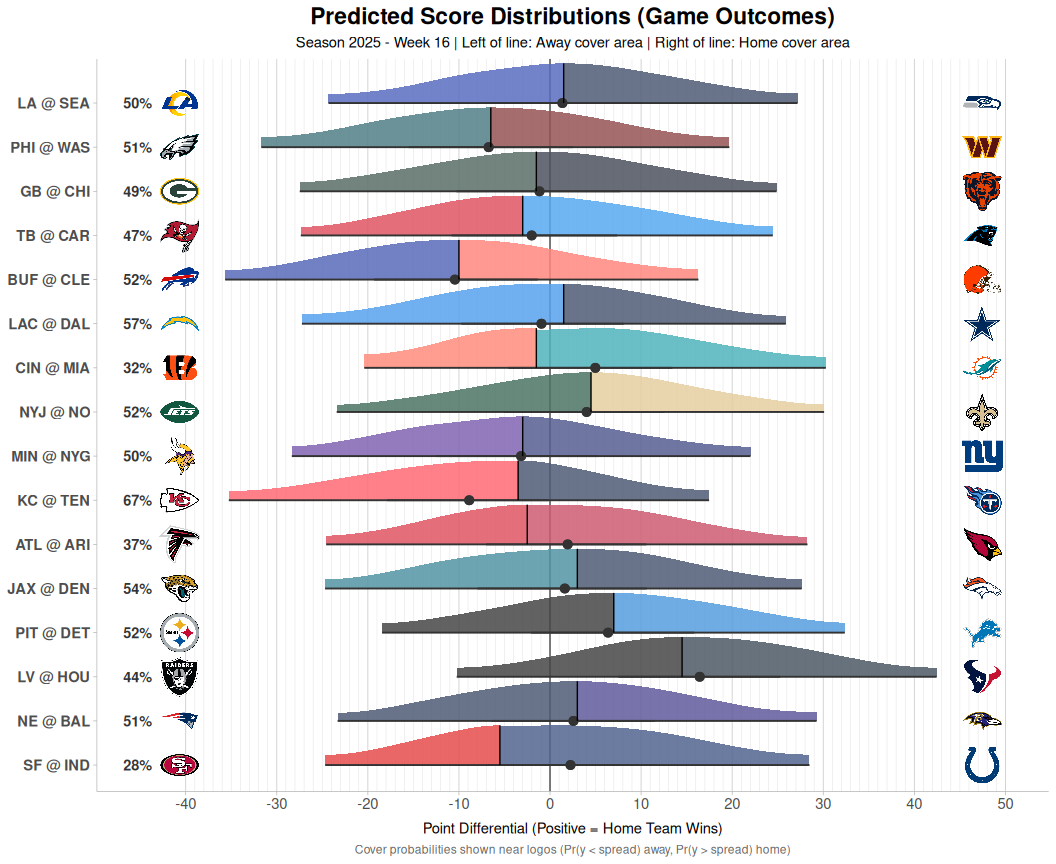
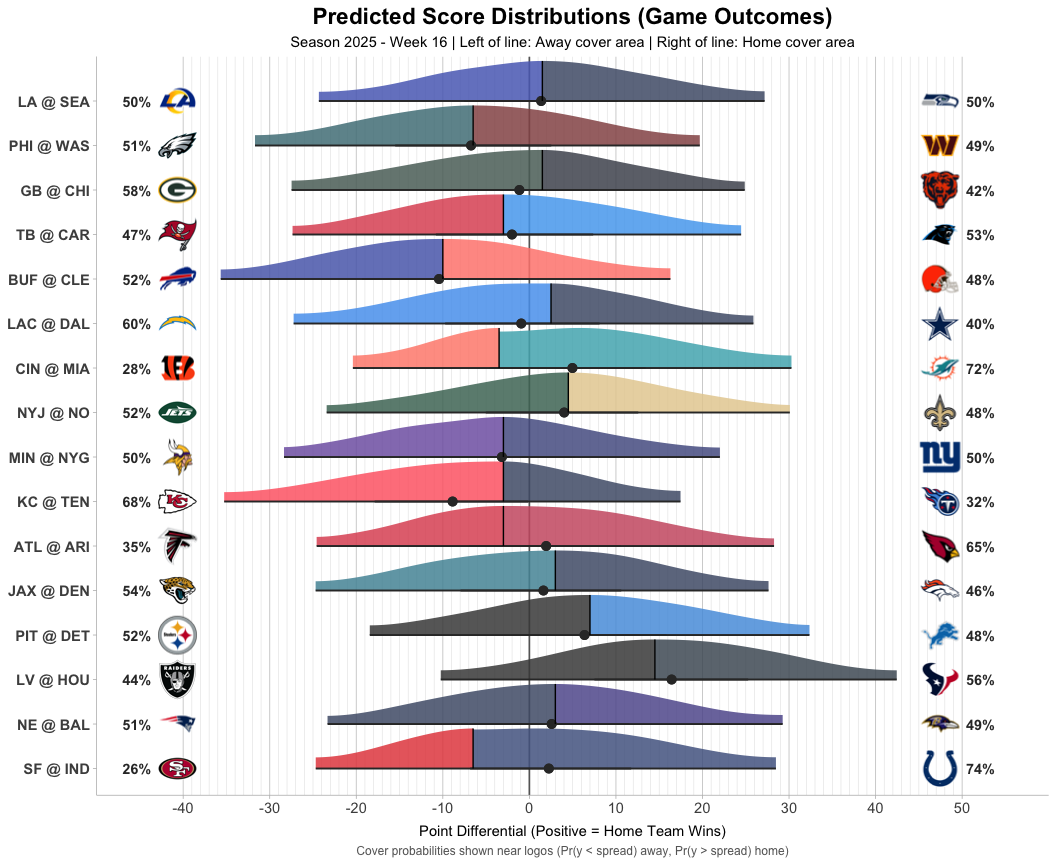
update score dist prob locations in README

diff --git a/README.md b/README.md
@@ -739,7 +739,7 @@ win_prob_plot <- pred_plot_df |>
   scale_fill_manual(values = team_colors) +
   scale_x_continuous(
     labels = scales::percent,
-    limits = c(0, 1.15),
+    limits = c(0, 1.00),
     breaks = seq(0, 1, 0.25)
   ) +
   labs(
@@ -800,8 +800,8 @@ away_text_pos <- min_y_data - 8
 home_text_pos <- max_y_data + 8
 
 # Calculate x-axis limits to accommodate logos/text with margin
-x_min_new <- floor((min_y_data - 6) / 5) * 5
-x_max_new <- ceiling((max_y_data + 6) / 5) * 5
+x_min_new <- floor((min_y_data - 8) / 5) * 5
+x_max_new <- ceiling((max_y_data + 8) / 5) * 5
 
 # Calculate 95% interval bounds for trimming (per-game)
 pred_plot_df_bounds <- pred_plot_df |>
